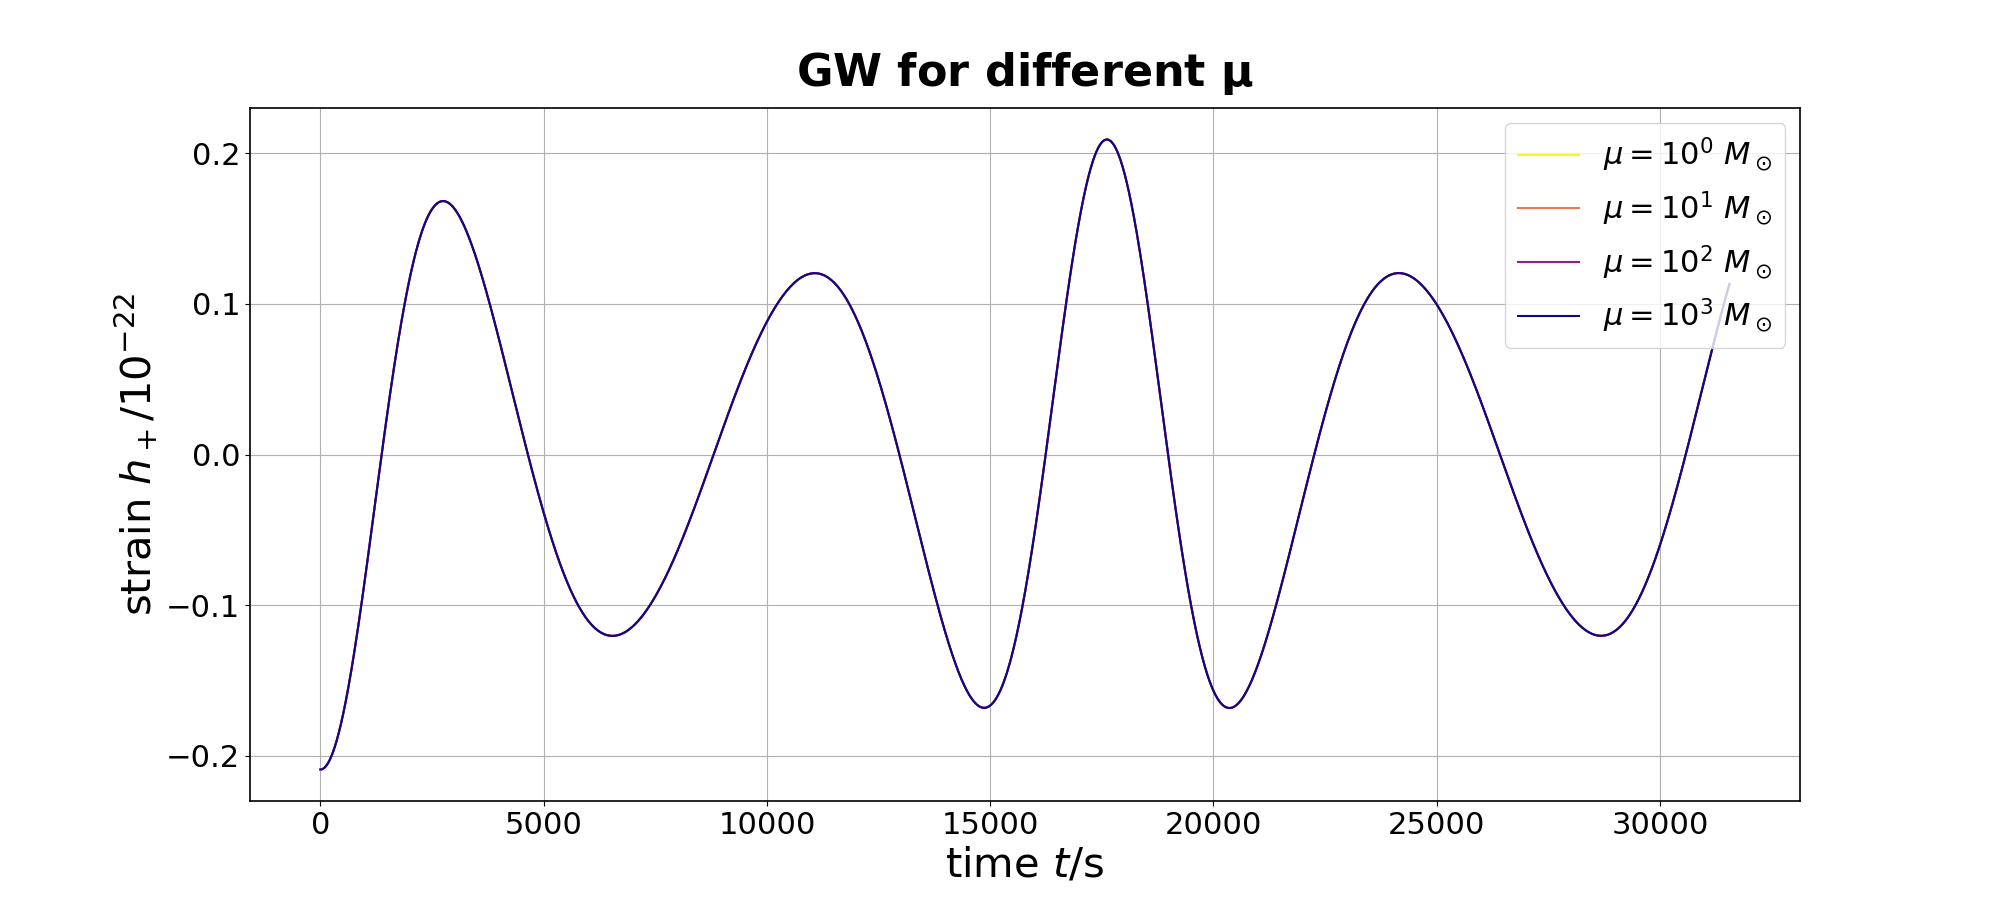
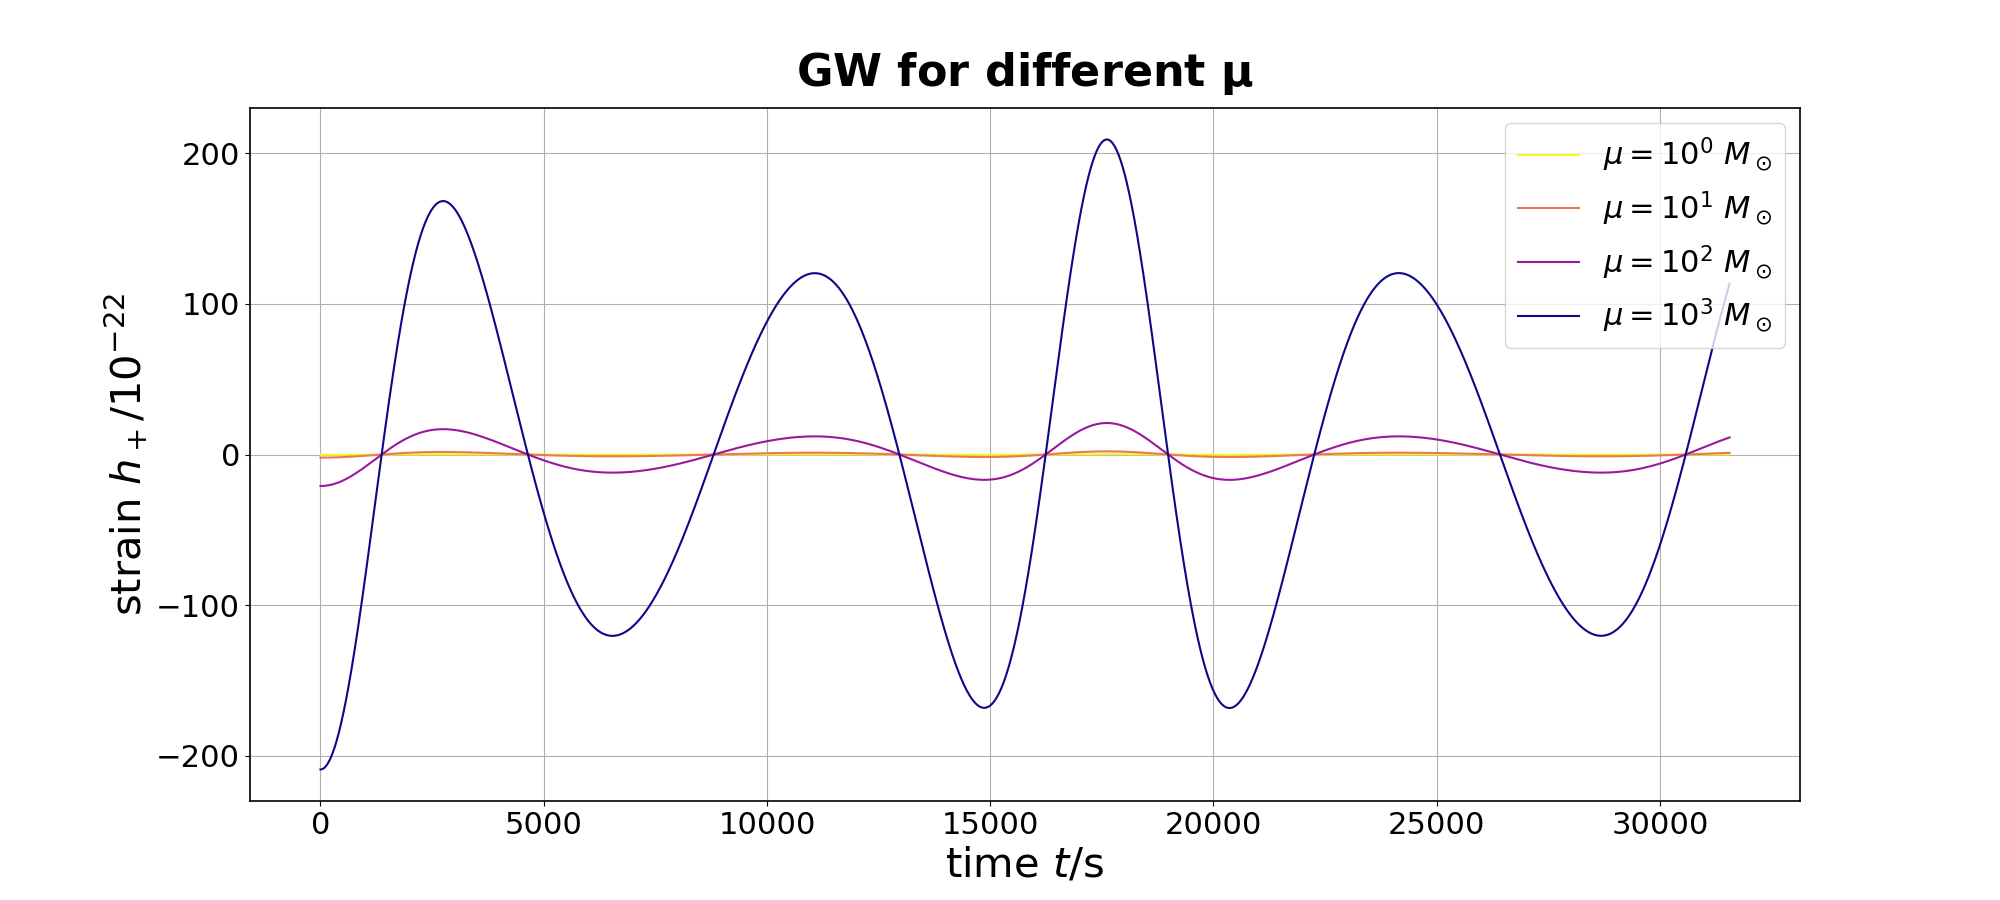
little changes in the pics

diff --git a/Variation_parameters/Mu/mu.py b/Variation_parameters/Mu/mu.py
@@ -131,7 +131,7 @@ for i in range(0, 4):
 
     t = np.arange(len(h.real)) * dt
 
-    ax.plot(t, h.real * 1E22 / 10 ** i, color = color, label = lab[i])
+    ax.plot(t, h.real * 1E22, color = color, label = lab[i])
 
 ax.legend()
 ax.set_xlabel("time $t /$s")

diff --git a/Simulation/simulation.py b/Simulation/simulation.py
@@ -116,6 +116,8 @@ Phi_theta0 = 0
 Phi_r0 = 0
 
 
+# Run time test
+
 import time
 
 st = time.time()
